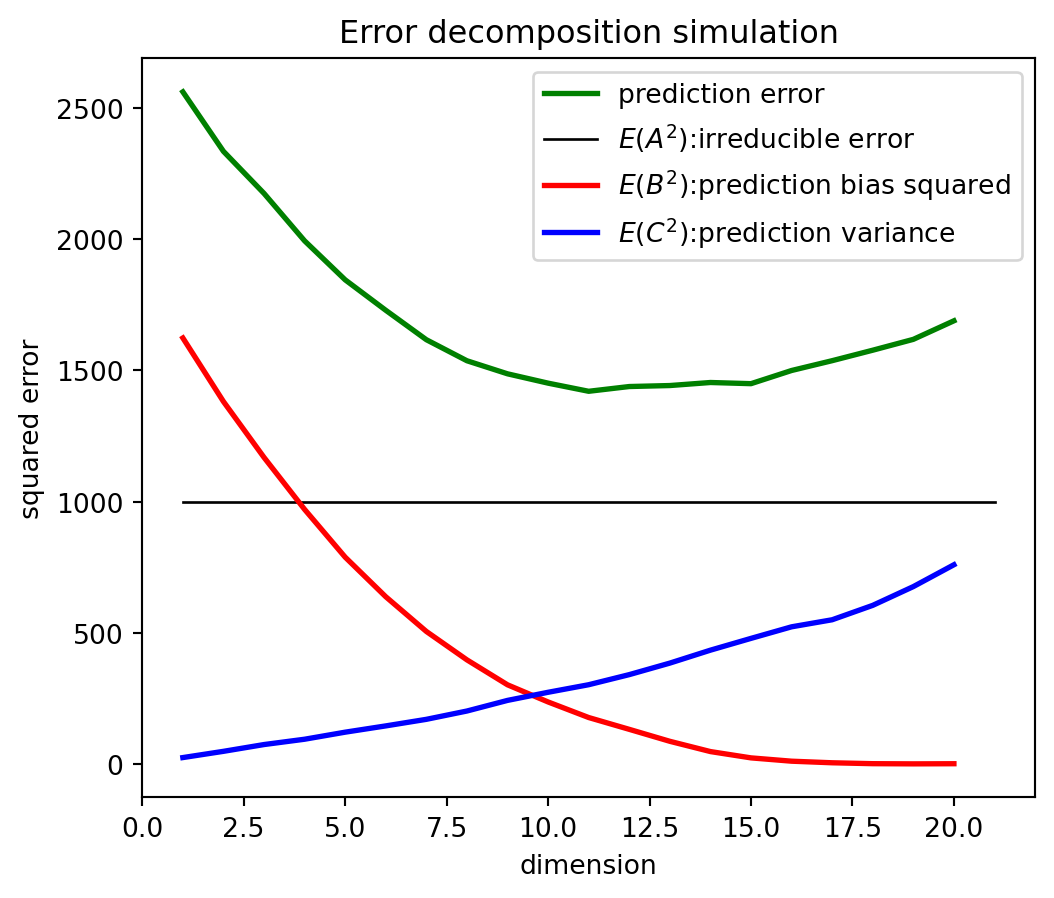
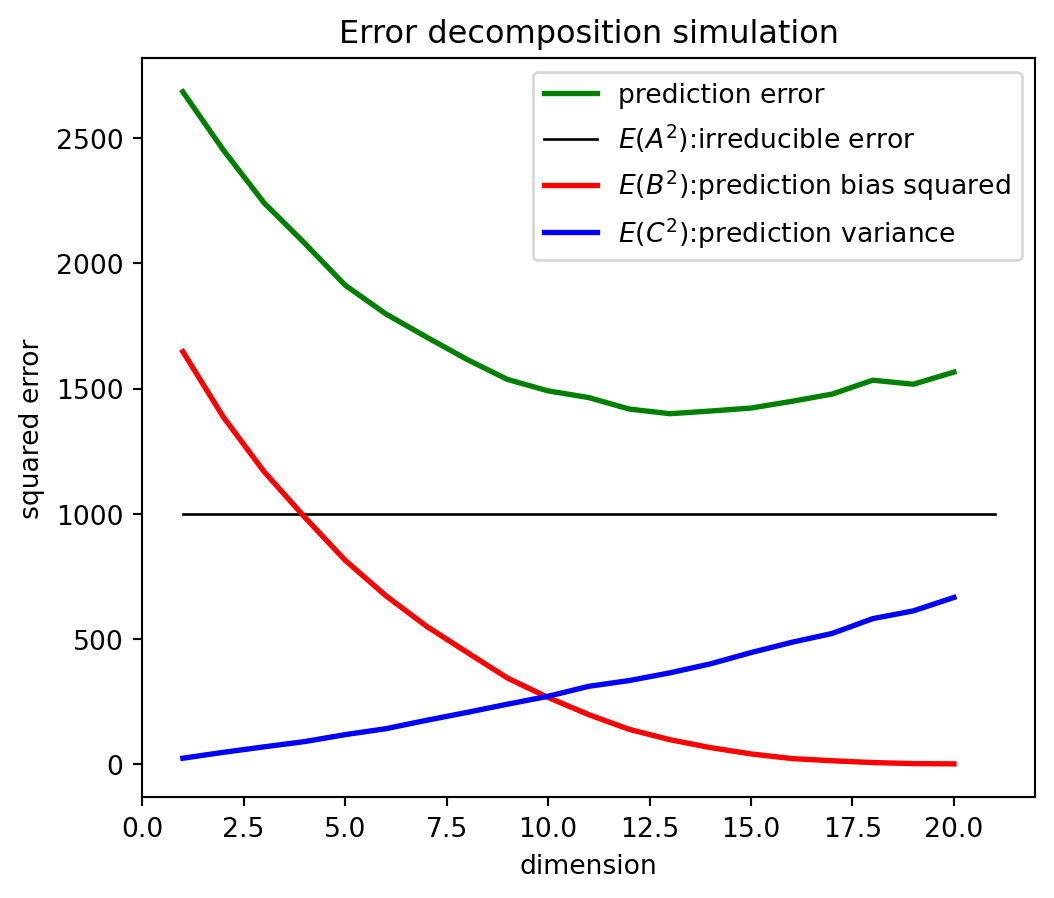
More regression

diff --git a/c03_linear_regression/c03_linear_regression.html b/c03_linear_regression/c03_linear_regression.html
@@ -10,7 +10,7 @@
 <link href="../libs/quarto-html/quarto-syntax-highlighting.css" rel="stylesheet" id="quarto-text-highlighting-styles"><meta charset="utf-8">
   <meta name="generator" content="quarto-1.4.554">
 
-  <title>Intro. to Statistical Learning</title>
+  <title>Linear Regression</title>
   <meta name="apple-mobile-web-app-capable" content="yes">
   <meta name="apple-mobile-web-app-status-bar-style" content="black-translucent">
   <meta name="viewport" content="width=device-width, initial-scale=1.0, maximum-scale=1.0, user-scalable=no, minimal-ui">
@@ -420,7 +420,7 @@
 <section class="slide level2">
 
 <h3 id="from-line-to-rss-surface">From line to RSS surface</h3>
-<div id="10b1389a" class="cell" data-execution_count="1">
+<div id="6b4706ca" class="cell" data-execution_count="1">
 <div class="cell-output cell-output-display">
 <div>
 <figure>
@@ -477,7 +477,7 @@
 <section class="slide level2">
 
 <h3 id="average-of-many-ols-lines">Average of many OLS lines</h3>
-<div id="cf31b216" class="cell" data-execution_count="2">
+<div id="db4f7564" class="cell" data-execution_count="2">
 <div class="cell-output cell-output-display">
 <div>
 <figure>
@@ -486,6 +486,24 @@
 </div>
 </div>
 </div>
+<aside class="notes">
+<div style="direction:rtl; font-size:16px">
+
+</div>
+<style type="text/css">
+        span.MJX_Assistive_MathML {
+          position:absolute!important;
+          clip: rect(1px, 1px, 1px, 1px);
+          padding: 1px 0 0 0!important;
+          border: 0!important;
+          height: 1px!important;
+          width: 1px!important;
+          overflow: hidden!important;
+          display:block!important;
+      }</style></aside>
+</section>
+<section id="probabilistic-view-of-linear-regression" class="slide level2 title-slide center">
+<h2>Probabilistic View of Linear Regression</h2>
 <aside class="notes">
 <div style="direction:rtl; font-size:16px">
 
@@ -535,9 +553,169 @@
 <h3 id="simple-linear-regression-maximum-likelihood">Simple linear regression maximum likelihood</h3>
 <p>Since the errors are normal and the model is linear we get:</p>
 <p><span class="math inline">\(y_i = \beta_0 + \beta_1x_i + \varepsilon_i  \to y_i \sim \mathcal{N}(\beta_0 + \beta_1x_i, \sigma^2) \to\)</span></p>
-<p><span class="math display">\[L(\beta, \sigma^2 | x, y) = \prod_{i = 1}^n f(y_i) = \prod_{i = 1}^n \frac{1}{\sqrt{2\pi\sigma^2}}\exp\left[-\frac{(y_i - \beta_0 - \beta_1x_i)^2}{2\sigma^2}\right]\]</span> <span class="math display">\[= (2\pi\sigma^2)^{-\frac{n}{2}}\exp\left[-\sum_{i = 1}^n \frac{(y_i - \beta_0 - \beta_1x_i)^2}{2\sigma^2}\right]\]</span></p>
+<p><span class="math display">\[L(\beta, \sigma^2 | x, y) = \prod_{i = 1}^n f(y_i) = \prod_{i = 1}^n \frac{1}{\sqrt{2\pi\sigma^2}}\exp\left[-\frac{(y_i - \beta_0 - \beta_1x_i)^2}{2\sigma^2}\right]\]</span> <span class="math display">\[= (2\pi\sigma^2)^{-\frac{n}{2}}\exp\left[-\frac{1}{2\sigma^2}\sum_{i = 1}^n(y_i - \beta_0 - \beta_1x_i)^2\right]\]</span></p>
 <p>Calculating the log-likelihood we get:</p>
-<p><span class="math display">\[l(\beta, \sigma^2 | x, y) = -\frac{n}{2}\ln(2\pi)-\frac{n}{2}\ln(\sigma^2)-\frac{1}{2\sigma^2}\sum_{i = 1}^n (y_i - \beta_0 - \beta_1x_i)^2\]</span></p>
+<p><span class="math inline">\(\ell(\beta, \sigma^2 | x, y) = -\frac{n}{2}\ln(2\pi)-\frac{n}{2}\ln(\sigma^2)-\frac{1}{2\sigma^2}\)</span><span style="color:red;"><span class="math inline">\(\sum_{i = 1}^n(y_i - \beta_0 - \beta_1x_i)^2\)</span></span></p>
+<aside class="notes">
+<div style="direction:rtl; font-size:16px">
+
+</div>
+<style type="text/css">
+        span.MJX_Assistive_MathML {
+          position:absolute!important;
+          clip: rect(1px, 1px, 1px, 1px);
+          padding: 1px 0 0 0!important;
+          border: 0!important;
+          height: 1px!important;
+          width: 1px!important;
+          overflow: hidden!important;
+          display:block!important;
+      }</style></aside>
+</section>
+<section id="multiple-linear-regression" class="slide level2 title-slide center">
+<h2>Multiple linear regression</h2>
+<aside class="notes">
+<div style="direction:rtl; font-size:16px">
+
+</div>
+<style type="text/css">
+        span.MJX_Assistive_MathML {
+          position:absolute!important;
+          clip: rect(1px, 1px, 1px, 1px);
+          padding: 1px 0 0 0!important;
+          border: 0!important;
+          height: 1px!important;
+          width: 1px!important;
+          overflow: hidden!important;
+          display:block!important;
+      }</style></aside>
+</section>
+<section class="slide level2">
+
+<h3 id="from-simple-to-multiple-regression">From simple to multiple regression</h3>
+<p><br><br></p>
+<p><span class="math inline">\(y_i = \beta_0 + \beta_1x_{i1} + \dots + \beta_px_{ip} + \varepsilon_i \to y_i = x_i'\beta + \varepsilon_i\)</span>, <span class="math inline">\(\varepsilon_i \sim \mathcal{N}(0, \sigma^2)\)</span></p>
+<p>Or even more concisely:</p>
+<p><span class="math inline">\(y = \begin{pmatrix}y_{1} \\ \vdots \\ y_{n}\end{pmatrix}\)</span>, <span class="math inline">\(X = \begin{pmatrix}
+1 &amp; x_{11} &amp; x_{12} &amp; \cdots &amp; x_{1p} \\
+1 &amp; x_{21} &amp; x_{22} &amp; \cdots &amp; x_{2p} \\
+1 &amp; x_{31} &amp; x_{32} &amp; \cdots &amp; x_{3p} \\
+\vdots &amp; \vdots &amp; \vdots &amp; \ddots &amp; \vdots \\
+1 &amp; x_{n1} &amp; x_{n2} &amp; \cdots &amp; x_{np}
+\end{pmatrix}\)</span>, <span class="math inline">\(\beta = \begin{pmatrix}\beta_0 \\ \beta_{1} \\ \vdots \\ \beta_{p}\end{pmatrix}\)</span>, <span class="math inline">\(\varepsilon = \begin{pmatrix}\varepsilon_{1} \\ \vdots \\ \varepsilon_{n}\end{pmatrix}\)</span></p>
+<div class="fragment">
+<p><span class="math display">\[\to y = X\beta + \varepsilon, \quad \varepsilon \sim \mathcal{N}(\textbf{0}, \sigma^2I_n)\]</span></p>
+</div>
+<aside class="notes">
+<div style="direction:rtl; font-size:16px">
+
+</div>
+<style type="text/css">
+        span.MJX_Assistive_MathML {
+          position:absolute!important;
+          clip: rect(1px, 1px, 1px, 1px);
+          padding: 1px 0 0 0!important;
+          border: 0!important;
+          height: 1px!important;
+          width: 1px!important;
+          overflow: hidden!important;
+          display:block!important;
+      }</style></aside>
+</section>
+<section class="slide level2">
+
+<h3 id="from-line-to-hyperplane">From line to (hyper)plane</h3>
+<div id="8d6bac91" class="cell" data-execution_count="3">
+<div class="cell-output cell-output-display">
+<div>
+<figure>
+<p><img data-src="c03_linear_regression_files/figure-revealjs/cell-4-output-1.png" width="570" height="537"></p>
+</figure>
+</div>
+</div>
+</div>
+<aside class="notes">
+<div style="direction:rtl; font-size:16px">
+
+</div>
+<style type="text/css">
+        span.MJX_Assistive_MathML {
+          position:absolute!important;
+          clip: rect(1px, 1px, 1px, 1px);
+          padding: 1px 0 0 0!important;
+          border: 0!important;
+          height: 1px!important;
+          width: 1px!important;
+          overflow: hidden!important;
+          display:block!important;
+      }</style></aside>
+</section>
+<section class="slide level2">
+
+<h3 id="multiple-linear-regression-ml">Multiple linear regression ML</h3>
+<p><span class="math inline">\(y_i = x_i'\beta + \varepsilon_i  \to y \sim \mathcal{N}(x_i'\beta, \sigma^2) \to\)</span></p>
+<p><span class="math display">\[L(\beta, \sigma^2 | X, y) = \prod_{i = 1}^n f(y_i) = \prod_{i = 1}^n \frac{1}{\sqrt{2\pi\sigma^2}}\exp\left[-\frac{(y_i - x_i'\beta)^2}{2\sigma^2}\right]\]</span> <span class="math display">\[= (2\pi\sigma^2)^{-\frac{n}{2}}\exp\left[-\frac{1}{2\sigma^2}\sum_{i = 1}^n (y_i - x_i'\beta)^2\right]\]</span> <span class="math display">\[= (2\pi\sigma^2)^{-\frac{n}{2}}\exp\left[-\frac{1}{2\sigma^2}(y - X\beta)'(y - X\beta)\right]\]</span></p>
+<p>Calculating the log-likelihood we get:</p>
+<p><span class="math inline">\(\ell(\beta, \sigma^2 | X, y) = -\frac{n}{2}\ln(2\pi)-\frac{n}{2}\ln(\sigma^2)-\frac{1}{2\sigma^2}\)</span><span style="color:red;"><span class="math inline">\((y - X\beta)'(y - X\beta)\)</span></span></p>
+<aside class="notes">
+<div style="direction:rtl; font-size:16px">
+
+</div>
+<style type="text/css">
+        span.MJX_Assistive_MathML {
+          position:absolute!important;
+          clip: rect(1px, 1px, 1px, 1px);
+          padding: 1px 0 0 0!important;
+          border: 0!important;
+          height: 1px!important;
+          width: 1px!important;
+          overflow: hidden!important;
+          display:block!important;
+      }</style></aside>
+</section>
+<section class="slide level2">
+
+<h3 id="linear-regression-mle">Linear regression MLE</h3>
+<p><span class="math inline">\(\ell(\beta, \sigma^2 | X, y) = -\frac{n}{2}\ln(2\pi)-\frac{n}{2}\ln(\sigma^2)-\frac{1}{2\sigma^2}(y - X\beta)'(y - X\beta)\)</span></p>
+<div class="fragment">
+<p><span class="math inline">\(= \mathcal{C} - \frac{n}{2}\ln(\sigma^2) - \frac{1}{2\sigma^2}(y'y -2\beta'X'y + \beta'X'X\beta)\)</span></p>
+</div>
+<p><br><br></p>
+<div class="fragment">
+<p><span class="math inline">\(\frac{\partial l}{\partial \beta} = -\frac{1}{2\sigma^2}(2X'y - 2X'X\beta)\)</span></p>
+</div>
+<div class="fragment">
+<p><span class="math inline">\(\frac{1}{\sigma^2}(X'y - X'X\beta) = 0\)</span></p>
+</div>
+<div class="fragment">
+<p><span class="math inline">\(X'X\beta = X'y\)</span></p>
+</div>
+<div class="fragment">
+<p><span style="color:red;"><span class="math inline">\(\hat{\beta} = (X'X)^{-1}X'y\)</span></span></p>
+</div>
+<p><br><br></p>
+<div class="fragment">
+<p>Similarly:</p>
+<p><span class="math inline">\(\frac{\partial l}{\partial \sigma^2} = -\frac{n}{2\sigma^2} + \frac{1}{2\sigma^4}(y - X\beta)'(y - X\beta)\)</span> <span class="math inline">\(\to\)</span> <span style="color:red;"><span class="math inline">\(\hat{\sigma}^2 = \frac{1}{n}(y - X\beta)'(y - X\beta)\)</span></span></p>
+</div>
+<aside class="notes">
+<div style="direction:rtl; font-size:16px">
+
+</div>
+<style type="text/css">
+        span.MJX_Assistive_MathML {
+          position:absolute!important;
+          clip: rect(1px, 1px, 1px, 1px);
+          padding: 1px 0 0 0!important;
+          border: 0!important;
+          height: 1px!important;
+          width: 1px!important;
+          overflow: hidden!important;
+          display:block!important;
+      }</style></aside>
+</section>
+<section id="properties-of-linear-regression" class="slide level2 title-slide center">
+<h2>Properties of Linear Regression</h2>
 <aside class="notes">
 <div style="direction:rtl; font-size:16px">
 

diff --git a/c02_bias_variance/c02_bias_variance.html b/c02_bias_variance/c02_bias_variance.html
@@ -10,7 +10,7 @@
 <link href="../libs/quarto-html/quarto-syntax-highlighting.css" rel="stylesheet" id="quarto-text-highlighting-styles"><meta charset="utf-8">
   <meta name="generator" content="quarto-1.4.554">
 
-  <title>Intro. to Statistical Learning</title>
+  <title>The Bias-Variance Tradeoff</title>
   <meta name="apple-mobile-web-app-capable" content="yes">
   <meta name="apple-mobile-web-app-status-bar-style" content="black-translucent">
   <meta name="viewport" content="width=device-width, initial-scale=1.0, maximum-scale=1.0, user-scalable=no, minimal-ui">
@@ -582,7 +582,7 @@
 </section>
 <section class="slide level2">
 
-<div id="81db94f5" class="cell" data-execution_count="2">
+<div id="98f5b8b4" class="cell" data-execution_count="2">
 <div class="sourceCode cell-code" id="cb1" data-code-line-numbers="|1-7|9|10-12|13|14|15-16|18-20|"><pre class="sourceCode numberSource python number-lines code-with-copy"><code class="sourceCode python"><span id="cb1-1"><a href=""></a>ntr <span class="op">=</span> <span class="dv">50</span></span>
 <span id="cb1-2"><a href=""></a>p <span class="op">=</span> <span class="dv">20</span></span>
 <span id="cb1-3"><a href=""></a>sigma_sq <span class="op">=</span> <span class="dv">1000</span></span>
@@ -628,7 +628,7 @@
 </section>
 <section class="slide level2">
 
-<div id="9934f2c5" class="cell" data-execution_count="3">
+<div id="6d9a80b3" class="cell" data-execution_count="3">
 <div class="sourceCode cell-code" id="cb2"><pre class="sourceCode python code-with-copy"><code class="sourceCode python"><span id="cb2-1"><a href="" aria-hidden="true" tabindex="-1"></a>plt.plot(<span class="bu">range</span>(<span class="dv">1</span>, p <span class="op">+</span> <span class="dv">1</span>), pred_err, color<span class="op">=</span><span class="st">'green'</span>, lw<span class="op">=</span><span class="dv">2</span>, label<span class="op">=</span><span class="st">'prediction error'</span> )</span>
 <span id="cb2-2"><a href="" aria-hidden="true" tabindex="-1"></a>plt.plot([<span class="dv">1</span>, p <span class="op">+</span> <span class="dv">1</span>], [sigma_sq, sigma_sq], color<span class="op">=</span><span class="st">'black'</span>, lw<span class="op">=</span><span class="dv">1</span>, label<span class="op">=</span><span class="st">'$E(A^2)$:irreducible error'</span>)</span>
 <span id="cb2-3"><a href="" aria-hidden="true" tabindex="-1"></a>plt.plot(<span class="bu">range</span>(<span class="dv">1</span>, p <span class="op">+</span> <span class="dv">1</span>), pred_bias, color<span class="op">=</span><span class="st">'red'</span>, lw<span class="op">=</span><span class="dv">2</span>, label<span class="op">=</span><span class="st">'$E(B^2)$:prediction bias squared'</span>)</span>
@@ -722,7 +722,7 @@
 
 <h3 id="bayes-decision-boundary">Bayes decision boundary</h3>
 <p>Assume the conditional probability <span class="math inline">\(P(Y = 1 | X)\)</span> is a nice, slowly changing function of <span class="math inline">\(X\)</span>:</p>
-<div id="fc121517" class="cell" data-execution_count="4">
+<div id="e95451a5" class="cell" data-execution_count="4">
 <div class="cell-output cell-output-display">
 <div>
 <figure>
@@ -811,7 +811,7 @@
 <section class="slide level2">
 
 <h3 id="the-bayes-classifier-is-purely-theoretical">The Bayes classifier is purely theoretical!</h3>
-<div id="5cdbd3b0" class="cell" data-execution_count="5">
+<div id="b1a44ce2" class="cell" data-execution_count="5">
 <div class="cell-output cell-output-display">
 <div>
 <figure>
@@ -924,7 +924,7 @@
 <section class="slide level2">
 
 <h3 id="knn-vs.-bayes-classifier">KNN vs.&nbsp;Bayes classifier</h3>
-<div id="50b655a9" class="cell" data-execution_count="6">
+<div id="6733d183" class="cell" data-execution_count="6">
 <div class="cell-output cell-output-display">
 <div>
 <figure>
@@ -955,7 +955,7 @@
 <section class="slide level2">
 
 <h3 id="knn-and-bias-variance-tradeoff">KNN and bias-variance tradeoff</h3>
-<div id="27e24919" class="cell" data-execution_count="7">
+<div id="5fb463b3" class="cell" data-execution_count="7">
 <div class="cell-output cell-output-display">
 <div>
 <figure>
@@ -999,7 +999,7 @@
 <section class="slide level2">
 
 <h3 id="how-to-choose-k">How to choose <span class="math inline">\(K\)</span>?</h3>
-<div id="9776a210" class="cell" data-execution_count="8">
+<div id="b1fa293e" class="cell" data-execution_count="8">
 <div class="cell-output cell-output-display">
 <div>
 <figure>
